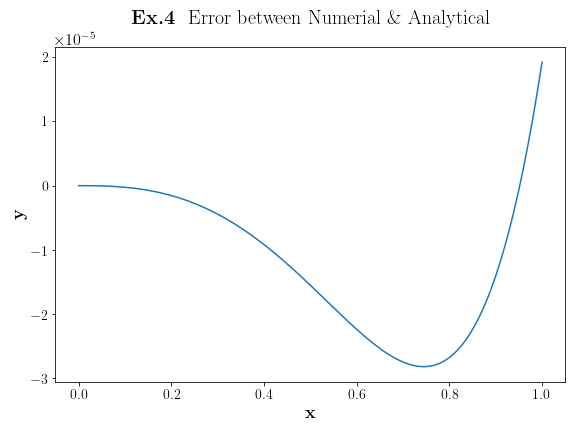
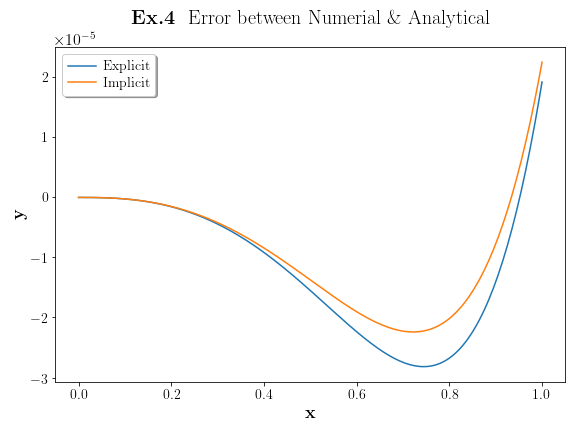
Auto Update: 2021-05-26 16:07:06

diff --git a/posts/2021/fde_num-1/index.html b/posts/2021/fde_num-1/index.html
@@ -5,7 +5,7 @@ $$ D^{k} y(0) = y_0^{(k)}, \quad k=0,1,\cdots,\lceil n\rceil - 1 $$
 applicated Lemma 6.2, in order to convert the initial value problem for the differential equation into an equivalent Volterra integral equation,
 $$ y(x) = \sum_{k=0}^{m-1} \frac{x^k}{k!} D^k y(0) + \frac{1}{\Gamma(n)} \int_0^x (x-t)^{n-1} f(t, y(t)) \mathrm{d} t $$
 where $m=\lceil n\rceil$.
-The algorithm that we shall consider can be interpreted as a frational variant of the classical second-order Adams–Bashforth–Moulton method."><script type=application/ld+json>{"@context":"http://schema.org","@type":"BlogPosting","headline":"FDE: An Algorithm for Single-Term Equations","mainEntityOfPage":{"@type":"WebPage","@id":"https:\/\/blog.eastmagica.com\/posts\/2021\/fde_num-1\/"},"image":{"@type":"ImageObject","url":"https:\/\/blog.eastmagica.com\/cover.png","width":800,"height":600},"genre":"posts","keywords":"fractional caculus, differential equations, python","wordcount":1304,"url":"https:\/\/blog.eastmagica.com\/posts\/2021\/fde_num-1\/","datePublished":"2021-05-24T12:24:39\u002b08:00","dateModified":"2021-05-24T12:24:39\u002b08:00","publisher":{"@type":"Organization","name":"EastMagica","logo":{"@type":"ImageObject","url":"https:\/\/blog.eastmagica.com\/logo.png","width":127,"height":40}},"author":{"@type":"Person","name":"EastMagica"},"description":""}</script></head><body><div class=wrapper><nav class=navbar><div class=container><div class="navbar-header header-logo"><a href=https://blog.eastmagica.com>东方小道</a></div><div class="menu navbar-right"><a class=menu-item href=/posts/ title>Blog</a>
+The algorithm that we shall consider can be interpreted as a frational variant of the classical second-order Adams–Bashforth–Moulton method."><script type=application/ld+json>{"@context":"http://schema.org","@type":"BlogPosting","headline":"FDE: An Algorithm for Single-Term Equations","mainEntityOfPage":{"@type":"WebPage","@id":"https:\/\/blog.eastmagica.com\/posts\/2021\/fde_num-1\/"},"image":{"@type":"ImageObject","url":"https:\/\/blog.eastmagica.com\/cover.png","width":800,"height":600},"genre":"posts","keywords":"fractional caculus, differential equations, python","wordcount":1433,"url":"https:\/\/blog.eastmagica.com\/posts\/2021\/fde_num-1\/","datePublished":"2021-05-24T12:24:39\u002b08:00","dateModified":"2021-05-24T12:24:39\u002b08:00","publisher":{"@type":"Organization","name":"EastMagica","logo":{"@type":"ImageObject","url":"https:\/\/blog.eastmagica.com\/logo.png","width":127,"height":40}},"author":{"@type":"Person","name":"EastMagica"},"description":""}</script></head><body><div class=wrapper><nav class=navbar><div class=container><div class="navbar-header header-logo"><a href=https://blog.eastmagica.com>东方小道</a></div><div class="menu navbar-right"><a class=menu-item href=/posts/ title>Blog</a>
 <a class=menu-item href=/tags/ title>Tags</a>
 <a class=menu-item href=/about title>About</a>
 <a class=menu-item href=/atom.xml title>RSS</a></div></div></nav><nav class=navbar-mobile id=nav-mobile style=display:none><div class=container><div class=navbar-header><div><a href=https://blog.eastmagica.com>东方小道</a></div><div class=menu-toggle><span></span><span></span><span></span></div></div><div class=menu id=mobile-menu><a class=menu-item href=/posts/ title>Blog</a>
@@ -19,7 +19,7 @@ D^{k} y(0) = y_0^{(k)}, \quad k=0,1,\cdots,\lceil n\rceil - 1
 $$</p><p>applicated <strong>Lemma 6.2</strong>, in order to convert the initial value problem for the differential equation into an equivalent <strong>Volterra integral equation</strong>,</p><p>$$
 y(x) = \sum_{k=0}^{m-1} \frac{x^k}{k!} D^k y(0) + \frac{1}{\Gamma(n)} \int_0^x (x-t)^{n-1} f(t, y(t)) \mathrm{d} t
 $$</p><p>where $m=\lceil n\rceil$.</p><p>The algorithm that we shall consider can be interpreted as a frational variant of the classical second-order <strong>Adams–Bashforth–Moulton method</strong>.</p><h3 id=integral-scheme>Integral Scheme<a href=#integral-scheme class=anchor aria-hidden=true><svg xmlns="http://www.w3.org/2000/svg" viewBox="0 0 24 24" fill="none" stroke="currentcolor" stroke-width="2" stroke-linecap="round" stroke-linejoin="round"><path d="M15 7h3a5 5 0 015 5 5 5 0 01-5 5h-3m-6 0H6a5 5 0 01-5-5 5 5 0 015-5h3"/><line x1="8" y1="12" x2="16" y2="12"/></svg></a></h3><p>We focus our attention on the well-known initial-value problem for the first-order differnetial equation</p><p>$$\begin{cases}
-D y(x) &= f(x, y(x)) \<br>y(0) &= y_0
+D y(x) &= f(x, y(x)) \\<br>y(0) &= y_0
 \end{cases}$$</p><p>We suggest to use the predictor-corrector technique of Adams, for the sake of simplicity, we assume that we are working on a uniform grid ${t_j=jh: j=0,1,\cdots,N}$ with some interger $N$ and $h=T/N$.</p><p>$$
 y_{k+1} = y_k + \int_{x_k}^{x_{k+1}} f(t, y(t)) \mathrm{d} t = y_k + \frac{t_{k+1}-t_k}{2} \bigg(f(t_k, y(t_k)) + f(t_{k+1}, y(t_{k+1})\bigg)
 $$</p><p>explicit (forward Euler or one-step Adams–Bashforth) method</p><p>$$
@@ -30,31 +30,32 @@ $$</p><h3 id=fractional-scheme>Fractional Scheme<a href=#fractional-scheme class
 y(t_{k+1}) = \sum_{j=0}^{m-1} \frac{x^j}{j!} y^{(j)}_0 + \frac{1}{\Gamma(n)} \int_0^{t_{k+1}} (t_{k+1}-z)^{n-1} f(z, y(z)) \mathrm{d} z
 $$</p><p>We apply the approximation</p><p>$$
 \begin{aligned}
-& \int_0^{t_{k+1}} (t_{k+1} - z)^{n-1} g(z) \mathrm{d} z \<br>\approx & \int_0^{t_{k+1}} (t_{k+1} - z)^{n-1} \tilde{g}_{k+1}(z) \mathrm{d} z \<br>=& \int_0^{t_{k+1}} \left[(t_{k+1} - z)^{n-1} \left(\sum_{j=0}^{k+1} g(t_{j})\phi_{j, k+1}(z)\right)\right] \mathrm{d} z \<br>=& \sum_{j=0}^{k+1} g(t_{j}) \int_0^{t_{k+1}} (t_{k+1} - z)^{n-1} \phi_{j, k+1}(z) \mathrm{d} z \<br>=& \sum_{j=0}^{k+1} a_{j, k+1} g(t_{j}) \<br>\end{aligned}
+& \int_0^{t_{k+1}} (t_{k+1} - z)^{n-1} g(z) \mathrm{d} z \\<br>\approx & \int_0^{t_{k+1}} (t_{k+1} - z)^{n-1} \tilde{g}_{k+1}(z) \mathrm{d} z \\<br>=& \int_0^{t_{k+1}} \left[(t_{k+1} - z)^{n-1} \left(\sum_{j=0}^{k+1} g(t_{j})\phi_{j, k+1}(z)\right)\right] \mathrm{d} z \\<br>=& \sum_{j=0}^{k+1} g(t_{j}) \int_0^{t_{k+1}} (t_{k+1} - z)^{n-1} \phi_{j, k+1}(z) \mathrm{d} z \\<br>=& \sum_{j=0}^{k+1} a_{j, k+1} g(t_{j}) \\<br>\end{aligned}
 $$</p><p>where $\tilde{g}$ is the piecewise linear interpolant for $g$ with nodes and knots chosen at the $t_j,; j=0,1,2,\cdots,k+1$ as</p><p>$$
 \tilde{g}<em>{k+1}(z) = \sum</em>{j=0}^{k+1} g(t_{j})\phi_{j, k+1}(z)
 $$</p><p>where $phi_{j}(z)$ is linear basis function, defined by</p><p>$$
 \phi_{j, k+1}(z)=\begin{cases}
-(z - t_{j-1}) / (t_j - t_{j-1}) & \text{ if } t_{j-1} &lt; z \leq t_{j} \<br>(t_{j+1} - z) / (t_{j+1} - t_j) & \text{ if } t_{j} &lt; z \leq t_{j+1} \<br>0 & \text{ else }
+(z - t_{j-1}) / (t_j - t_{j-1}) & \text{ if } t_{j-1} &lt; z \leq t_{j} \\<br>(t_{j+1} - z) / (t_{j+1} - t_j) & \text{ if } t_{j} &lt; z \leq t_{j+1} \\<br>0 & \text{ else }
 \end{cases}
-$$</p><p>visualized, shown as</p><p><figure><img src=/images/ring.svg data-sizes=auto data-src=img/single_term/basis_fun_all.png alt="Fig. Basis phi" class=lazyload><figcaption class=image-caption>Fig. Basis phi</figcaption></figure></p><p>then the itegration within coffecient $a_{j, k+1}$ can be simplified as</p><p>$$
+$$</p><p>visualized, shown as</p><p><figure><img src=/images/ring.svg data-sizes=auto data-src=basis_fun_all.png alt="Fig. Basis phi" class=lazyload><figcaption class=image-caption>Fig. Basis phi</figcaption></figure></p><p>then the itegration within coffecient $a_{j, k+1}$ can be simplified as</p><p>$$
 \begin{aligned}
-a_{j, k+1} =& \int_0^{t_{k+1}} (t_{k+1} - z)^{n-1} \phi_{j, k+1}(z) \mathrm{d} z \<br>=& \begin{cases}
-\frac{h^n}{n(n+1)} \left(k^{n+1}-(k-n)(k+1)^{n}\right) & \text{ if } j=0, \<br>\frac{h^n}{n(n+1)} \left((k-j+2)^{n+1}+(k-j)^{n+1}-2(k-j+1)^{n+1}\right) & \text{ if } 1\leq j\leq k, \<br>\frac{h^n}{n(n+1)} & \text{ if } j=k+1 \<br>\end{cases}
+a_{j, k+1} =& \int_0^{t_{k+1}} (t_{k+1} - z)^{n-1} \phi_{j, k+1}(z) \mathrm{d} z \\<br>=& \begin{cases}
+\frac{h^n}{n(n+1)} \left(k^{n+1}-(k-n)(k+1)^{n}\right) & \text{ if } j=0, \\<br>\frac{h^n}{n(n+1)} \left((k-j+2)^{n+1}+(k-j)^{n+1}-2(k-j+1)^{n+1}\right) & \text{ if } 1\leq j\leq k, \\<br>\frac{h^n}{n(n+1)} & \text{ if } j=k+1 \\<br>\end{cases}
 \end{aligned}
 $$</p><p>thus giving an equation for the unknown approximation $y_{k+1}$</p><p>$$\tag{3}
 y_{k+1} = \sum_{j=0}^{m-1} \frac{t_{k+1}^{j}}{j!} y_0^{(j)} + \frac{1}{\Gamma(n)} \left(\sum_{j=0}^{k+1} a_{j, k+1} f(t_j, y(t_j))\right)
 $$</p><p>where again we have to replace $y(t_{j})$ and by their approximation $y_j$ in (3), respectively. This yields the equation for the implicit one-step *Adams-Moulton method*, which is</p><p>$$\tag{4}
-y_{k+1} = \sum_{j=0}^{m-1} \frac{t_{k+1}^{j}}{j!} y_0^{(j)} + \frac{1}{\Gamma(n)} \left(\sum_{j=0}^{k+1} a_{j, k+1} f(t_j, y_j)\right)
-$$</p><p>The problem know is this equation is require the value of $y_{k+1}$ which is unknown, and due to the nonlinear nature of the function $f$, we cannot solve for $y_{k+1}$ directly in general. Therefore, we may use (1) in an iterative process, inserting a preliminary approximation for $y_{k+1}$ in the right-hand side in order to determine a better approximation that we can used.</p><p>The preliminary approximation $y_{k+1}^{P}$, the so-called predictor, is obtained in a very similar way, only replacing the xxxxxxx formula by the rectangle rule</p><p>$$
+y_{k+1} = \sum_{j=0}^{m-1} \frac{t_{k+1}^{j}}{j!} y_0^{(j)} + \frac{1}{\Gamma(n)} \left(\sum_{j=0}^{k} a_{j, k+1} f(t_j, y_j) + a_{k+1, k+1} f(t_{k+1}, y_{k+1})\right)
+$$</p><p>The problem know is this equation is require the value of $y_{k+1}$ which is unknown, and due to the nonlinear nature of the function $f$, we cannot solve for $y_{k+1}$ directly in general.</p><h4 id=explicit-method>Explicit Method<a href=#explicit-method class=anchor aria-hidden=true><svg xmlns="http://www.w3.org/2000/svg" viewBox="0 0 24 24" fill="none" stroke="currentcolor" stroke-width="2" stroke-linecap="round" stroke-linejoin="round"><path d="M15 7h3a5 5 0 015 5 5 5 0 01-5 5h-3m-6 0H6a5 5 0 01-5-5 5 5 0 015-5h3"/><line x1="8" y1="12" x2="16" y2="12"/></svg></a></h4><p>Therefore, we may use (1) in an iterative process, inserting a preliminary approximation for $y_{k+1}$ in the right-hand side in order to determine a better approximation that we can used.</p><p>The preliminary approximation $y_{k+1}^{P}$, the so-called predictor, is obtained in a very similar way, only replacing the xxxxxxx formula by the rectangle rule</p><p>$$
 \begin{aligned}
-& \int_{0}^{t_{k+1}} (t_{k+1} - z)^{n-1} g(z) \mathrm{d} z \<br>\approx & \int_{0}^{t_{k+1}} (t_{k+1} - z)^{n-1} \sum_{j=0}^{k} g(t_j) \mathrm{1}(z) \mathrm{d} z \<br>=& \sum_{j=0}^{k} g(t_j) \int_{0}^{t_{k+1}} (t_{k+1} - z)^{n-1} \mathrm{d} z \<br>=& \sum_{j=0}^{k} g(t_j) \frac{(t_{k+1} - t_{j}^n - (t_{k+1} - t_{j+1})^n}{n} \<br>=& \sum_{j=0}^{k} b_{j, k+1} g(t_j) \<br>\end{aligned}
-$$</p><p>the rectanle rule shown as</p><p><figure><img src=/images/ring.svg data-sizes=auto data-src=img/single_term/rectangle_rule.png alt="rectangle rule" class=lazyload><figcaption class=image-caption>rectangle rule</figcaption></figure></p><p>in equispaced case, we have the simpler expression $b_{j,k+1}=\frac{h^n}{n}((k+1-j)^n-(k-j)^n)$.</p><p>Thus giving us the explicit predict method</p><p>$$\tag{5}
+& \int_{0}^{t_{k+1}} (t_{k+1} - z)^{n-1} g(z) \mathrm{d} z \\<br>\approx & \int_{0}^{t_{k+1}} (t_{k+1} - z)^{n-1} \sum_{j=0}^{k} g(t_j) \mathrm{1}(z) \mathrm{d} z \\<br>=& \sum_{j=0}^{k} g(t_j) \int_{0}^{t_{k+1}} (t_{k+1} - z)^{n-1} \mathrm{d} z \\<br>=& \sum_{j=0}^{k} g(t_j) \frac{(t_{k+1} - t_{j}^n - (t_{k+1} - t_{j+1})^n}{n} \\<br>=& \sum_{j=0}^{k} b_{j, k+1} g(t_j) \\<br>\end{aligned}
+$$</p><p>the rectanle rule shown as</p><p><figure><img src=/images/ring.svg data-sizes=auto data-src=rectangle_rule.png alt="rectangle rule" class=lazyload><figcaption class=image-caption>rectangle rule</figcaption></figure></p><p>in equispaced case, we have the simpler expression $b_{j,k+1}=\frac{h^n}{n}((k+1-j)^n-(k-j)^n)$.</p><p>Thus giving us the explicit predict method</p><p>$$\tag{5}
 y_{k+1}^{P} = \sum_{j=0}^{m-1} \frac{t_{k+1}^{j}}{j!} y_0^{(j)} + \frac{1}{\Gamma(n)} \sum_{j=0}^{k} b_{j, k+1} f(t_{j}, y_{j})
 $$</p><p>This then gives us our corrector formula (i.e. the fractional variant of the one-step <em>Adams-Moulton method</em>), which is</p><p>$$\tag{6}
-\begin{aligned}
-y_{k+1} =& \sum_{j=0}^{m-1} \frac{t_{k+1}^{j}}{j!} y_0^{(j)} + \frac{1}{\Gamma(n)} \left(\sum_{j=0}^{k} a_{j, k+1} f(t_j, y(t_j)) + a_{k+1, k+1} f(t_{k+1}, y(t_{k+1}))\right) \<br>=& \sum_{j=0}^{m-1} \frac{t_{k+1}^{j}}{j!} y_0^{(j)} + \frac{1}{\Gamma(n)} \left(\sum_{j=0}^{k} a_{j, k+1} f(t_j, y_j) + a_{k+1, k+1} f(t_{k+1}, y_{k+1}^{P})\right) \<br>\end{aligned}
-$$</p><h2 id=examples>Examples<a href=#examples class=anchor aria-hidden=true><svg xmlns="http://www.w3.org/2000/svg" viewBox="0 0 24 24" fill="none" stroke="currentcolor" stroke-width="2" stroke-linecap="round" stroke-linejoin="round"><path d="M15 7h3a5 5 0 015 5 5 5 0 01-5 5h-3m-6 0H6a5 5 0 01-5-5 5 5 0 015-5h3"/><line x1="8" y1="12" x2="16" y2="12"/></svg></a></h2><h3 id=ex1-two-functions-coincide-at-x_1-but-nowhere-else>ex.1 two functions coincide at $x_1$ but nowhere else<a href=#ex1-two-functions-coincide-at-x_1-but-nowhere-else class=anchor aria-hidden=true><svg xmlns="http://www.w3.org/2000/svg" viewBox="0 0 24 24" fill="none" stroke="currentcolor" stroke-width="2" stroke-linecap="round" stroke-linejoin="round"><path d="M15 7h3a5 5 0 015 5 5 5 0 01-5 5h-3m-6 0H6a5 5 0 01-5-5 5 5 0 015-5h3"/><line x1="8" y1="12" x2="16" y2="12"/></svg></a></h3><p><strong>Theorem 6.A.</strong> Let $f: [a, b]\times [c, d]\rightarrow\mathbb{R}$ be continuous and satisfy a Lipschitz condition with respect to the second variable. Consider two solutions $y_1$ and $y_2$ of the differential equation</p><p>$$
+y_{k+1} = \sum_{j=0}^{m-1} \frac{t_{k+1}^{j}}{j!} y_0^{(j)} + \frac{1}{\Gamma(n)} \left(\sum_{j=0}^{k} a_{j, k+1} f(t_j, y_j) + a_{k+1, k+1} f(t_{k+1}, y_{k+1}^{P})\right)
+$$</p><h4 id=implicit-method>Implicit Method<a href=#implicit-method class=anchor aria-hidden=true><svg xmlns="http://www.w3.org/2000/svg" viewBox="0 0 24 24" fill="none" stroke="currentcolor" stroke-width="2" stroke-linecap="round" stroke-linejoin="round"><path d="M15 7h3a5 5 0 015 5 5 5 0 01-5 5h-3m-6 0H6a5 5 0 01-5-5 5 5 0 015-5h3"/><line x1="8" y1="12" x2="16" y2="12"/></svg></a></h4><p>Find a root of a scalar function</p><p>$$\tag{7}
+\bar{y}<em>{k+1} - \frac{a</em>{k+1, k+1}}{\Gamma(n)} f(t_{k+1}, \bar{y}_{k+1}) = \sum_{j=0}^{m-1} \frac{t_{k+1}^{j}}{j!} y_0^{(j)} + \frac{1}{\Gamma(n)} \left(\sum_{j=0}^{k} a_{j, k+1} f(t_j, y_j)\right)
+$$</p><p>then $\bar{y}<em>{k+1}$ is the approximation of $y</em>{k+1}$.</p><h2 id=examples>Examples<a href=#examples class=anchor aria-hidden=true><svg xmlns="http://www.w3.org/2000/svg" viewBox="0 0 24 24" fill="none" stroke="currentcolor" stroke-width="2" stroke-linecap="round" stroke-linejoin="round"><path d="M15 7h3a5 5 0 015 5 5 5 0 01-5 5h-3m-6 0H6a5 5 0 01-5-5 5 5 0 015-5h3"/><line x1="8" y1="12" x2="16" y2="12"/></svg></a></h2><h3 id=ex1-two-functions-coincide-at-x_1-but-nowhere-else>ex.1 two functions coincide at $x_1$ but nowhere else<a href=#ex1-two-functions-coincide-at-x_1-but-nowhere-else class=anchor aria-hidden=true><svg xmlns="http://www.w3.org/2000/svg" viewBox="0 0 24 24" fill="none" stroke="currentcolor" stroke-width="2" stroke-linecap="round" stroke-linejoin="round"><path d="M15 7h3a5 5 0 015 5 5 5 0 01-5 5h-3m-6 0H6a5 5 0 01-5-5 5 5 0 015-5h3"/><line x1="8" y1="12" x2="16" y2="12"/></svg></a></h3><p><strong>Theorem 6.A.</strong> Let $f: [a, b]\times [c, d]\rightarrow\mathbb{R}$ be continuous and satisfy a Lipschitz condition with respect to the second variable. Consider two solutions $y_1$ and $y_2$ of the differential equation</p><p>$$
 D^{1} y_{j} = f(x, y_j(x))\quad j=1,2
 $$</p><p>subject to the initial conditions $y_j(x_j)=y_{j0}$, respectively. Then the functions $y_1$ and $y_2$ coincide either everywhere or nowhere.</p><p><strong>Example 6.1</strong> Let $0 &lt; n &lt; 1$ and consider the fractional differential equations</p><p>$$
 D_{*0}^{n} y(x) = \Gamma(n+1)
@@ -122,7 +123,7 @@ $$</p><p>with initial condition $y(0)=0, y'(0)=0$.</p><p>The exact solution of t
 y(x) = x^8 - 3 x^{4+n/2} + \frac{9}{4} x^n
 $$</p><p>hence</p><p>$$
 D_{*0}^n y(x) = \frac{40320}{\Gamma(9-n)} x^{8-n} - 3\frac{\Gamma(5+n/2)}{\Gamma(5+n/2)} x^{4-n/2} + \frac{9}{4}\Gamma(n+1)
-$$</p><h4 id=numerical-3>Numerical<a href=#numerical-3 class=anchor aria-hidden=true><svg xmlns="http://www.w3.org/2000/svg" viewBox="0 0 24 24" fill="none" stroke="currentcolor" stroke-width="2" stroke-linecap="round" stroke-linejoin="round"><path d="M15 7h3a5 5 0 015 5 5 5 0 01-5 5h-3m-6 0H6a5 5 0 01-5-5 5 5 0 015-5h3"/><line x1="8" y1="12" x2="16" y2="12"/></svg></a></h4><p>Let $n = 1.25$</p><pre><code class=language-python>def fun_4(t, y):
+$$</p><h4 id=numerical-3>Numerical<a href=#numerical-3 class=anchor aria-hidden=true><svg xmlns="http://www.w3.org/2000/svg" viewBox="0 0 24 24" fill="none" stroke="currentcolor" stroke-width="2" stroke-linecap="round" stroke-linejoin="round"><path d="M15 7h3a5 5 0 015 5 5 5 0 01-5 5h-3m-6 0H6a5 5 0 01-5-5 5 5 0 015-5h3"/><line x1="8" y1="12" x2="16" y2="12"/></svg></a></h4><p>Let $n = 1.25$</p><p><strong>Explicit</strong> method shown as</p><pre><code class=language-python>def fun_4(t, y):
     expr1 = 40320/gamma(9-n) * t**(8-n)
     expr2 = 3 * gamma(5+n/2) / gamma(5-n/2) * t**(4-n/2)
     expr3 = 9/4 * gamma(n + 1)
@@ -139,12 +140,22 @@ $$</p><h4 id=numerical-3>Numerical<a href=#numerical-3 class=anchor aria-hidden=
     }
 )
 y_data_4 = test_4.iterator()
-</code></pre><p><figure><img src=/images/ring.svg data-sizes=auto data-src=ex.4.num.png alt="Figure 4.1 Numerial Solution" class=lazyload><figcaption class=image-caption>Figure 4.1 Numerial Solution</figcaption></figure></p><h4 id=analytical-1>Analytical<a href=#analytical-1 class=anchor aria-hidden=true><svg xmlns="http://www.w3.org/2000/svg" viewBox="0 0 24 24" fill="none" stroke="currentcolor" stroke-width="2" stroke-linecap="round" stroke-linejoin="round"><path d="M15 7h3a5 5 0 015 5 5 5 0 01-5 5h-3m-6 0H6a5 5 0 01-5-5 5 5 0 015-5h3"/><line x1="8" y1="12" x2="16" y2="12"/></svg></a></h4><pre><code class=language-python>t_seq_4 = test_4.t.seq
+</code></pre><p><figure><img src=/images/ring.svg data-sizes=auto data-src=ex.4.num.png alt="Figure 4.1 Explicit Numerial Solution" class=lazyload><figcaption class=image-caption>Figure 4.1 Explicit Numerial Solution</figcaption></figure></p><p><strong>Implicit</strong> method shown as</p><pre><code class=language-python>test_4_im = AdamsImplicit(
+    func=fun_4,
+    dy0=[np.array([0]), np.array([0])],
+    dn=n,
+    time_opt={
+        &quot;domain&quot;: np.array([0., 1.]),
+        &quot;n&quot;: 200
+    }
+)
+y_data_4_im = test_4_im.iterator()
+</code></pre><p><figure><img src=/images/ring.svg data-sizes=auto data-src=ex.4.num.im.png alt="Figure 4.1 Implicit Numerial Solution" class=lazyload><figcaption class=image-caption>Figure 4.1 Implicit Numerial Solution</figcaption></figure></p><h4 id=analytical-1>Analytical<a href=#analytical-1 class=anchor aria-hidden=true><svg xmlns="http://www.w3.org/2000/svg" viewBox="0 0 24 24" fill="none" stroke="currentcolor" stroke-width="2" stroke-linecap="round" stroke-linejoin="round"><path d="M15 7h3a5 5 0 015 5 5 5 0 01-5 5h-3m-6 0H6a5 5 0 01-5-5 5 5 0 015-5h3"/><line x1="8" y1="12" x2="16" y2="12"/></svg></a></h4><pre><code class=language-python>t_seq_4 = test_4.t.seq
 # t_seq_4 = np.linspace(0, 1., 201)
 
 y_analytic_4 = t_seq_4**8 - 3 * t_seq_4**(4+n/2) + 9/4 * t_seq_4**n
 </code></pre><p><figure><img src=/images/ring.svg data-sizes=auto data-src=ex.4.ana.png alt="Figure 4.2 Analytical Solution" class=lazyload><figcaption class=image-caption>Figure 4.2 Analytical Solution</figcaption></figure></p><h4 id=error-analysis-1>Error Analysis<a href=#error-analysis-1 class=anchor aria-hidden=true><svg xmlns="http://www.w3.org/2000/svg" viewBox="0 0 24 24" fill="none" stroke="currentcolor" stroke-width="2" stroke-linecap="round" stroke-linejoin="round"><path d="M15 7h3a5 5 0 015 5 5 5 0 01-5 5h-3m-6 0H6a5 5 0 01-5-5 5 5 0 015-5h3"/><line x1="8" y1="12" x2="16" y2="12"/></svg></a></h4><pre><code class=language-python>y_error_4 = y_data_4 - y_analytic_4
-</code></pre><p><figure><img src=/images/ring.svg data-sizes=auto data-src=ex.4.err.png alt="Figure 4.3 Error" class=lazyload><figcaption class=image-caption>Figure 4.3 Error</figcaption></figure></p><h4 id=error-order>Error Order<a href=#error-order class=anchor aria-hidden=true><svg xmlns="http://www.w3.org/2000/svg" viewBox="0 0 24 24" fill="none" stroke="currentcolor" stroke-width="2" stroke-linecap="round" stroke-linejoin="round"><path d="M15 7h3a5 5 0 015 5 5 5 0 01-5 5h-3m-6 0H6a5 5 0 01-5-5 5 5 0 015-5h3"/><line x1="8" y1="12" x2="16" y2="12"/></svg></a></h4><pre><code class=language-python>iter_step = 7
+</code></pre><p><figure><img src=/images/ring.svg data-sizes=auto data-src=ex.4.err.png alt="Figure 4.3 Error" class=lazyload><figcaption class=image-caption>Figure 4.3 Error</figcaption></figure></p><h4 id=error-order>Error Order<a href=#error-order class=anchor aria-hidden=true><svg xmlns="http://www.w3.org/2000/svg" viewBox="0 0 24 24" fill="none" stroke="currentcolor" stroke-width="2" stroke-linecap="round" stroke-linejoin="round"><path d="M15 7h3a5 5 0 015 5 5 5 0 01-5 5h-3m-6 0H6a5 5 0 01-5-5 5 5 0 015-5h3"/><line x1="8" y1="12" x2="16" y2="12"/></svg></a></h4><p><strong>Explicit</strong> shown as</p><pre><code class=language-python>iter_step = 7
 step_n = 10
 
 y_4_end_list = iter_error_order(
@@ -165,7 +176,28 @@ y_4_end_list = iter_error_order(
 )
 order_info_table, order_info = error_table(y_4_end_list)
 print(order_info_table.get_string())
-</code></pre><table><thead><tr><th style=text-align:center>step size</th><th style=text-align:center>Error of Adams scheme</th><th style=text-align:center>Error Order</th></tr></thead><tbody><tr><td style=text-align:center>10</td><td style=text-align:center>5.532564e-03</td><td style=text-align:center></td></tr><tr><td style=text-align:center>20</td><td style=text-align:center>1.593218e-03</td><td style=text-align:center>1.7960</td></tr><tr><td style=text-align:center>40</td><td style=text-align:center>4.328280e-04</td><td style=text-align:center>1.8801</td></tr><tr><td style=text-align:center>80</td><td style=text-align:center>1.143382e-04</td><td style=text-align:center>1.9205</td></tr><tr><td style=text-align:center>160</td><td style=text-align:center>2.974073e-05</td><td style=text-align:center>1.9428</td></tr><tr><td style=text-align:center>320</td><td style=text-align:center>7.663078e-06</td><td style=text-align:center>1.9564</td></tr><tr><td style=text-align:center>640</td><td style=text-align:center>1.961993e-06</td><td style=text-align:center>1.9656</td></tr></tbody></table></div><div class=post-copyright><p class=copyright-item><span>Author:</span>
+</code></pre><table><thead><tr><th style=text-align:center>step size</th><th style=text-align:center>Error of Adams scheme</th><th style=text-align:center>Error Order</th></tr></thead><tbody><tr><td style=text-align:center>10</td><td style=text-align:center>5.532564e-03</td><td style=text-align:center></td></tr><tr><td style=text-align:center>20</td><td style=text-align:center>1.593218e-03</td><td style=text-align:center>1.7960</td></tr><tr><td style=text-align:center>40</td><td style=text-align:center>4.328280e-04</td><td style=text-align:center>1.8801</td></tr><tr><td style=text-align:center>80</td><td style=text-align:center>1.143382e-04</td><td style=text-align:center>1.9205</td></tr><tr><td style=text-align:center>160</td><td style=text-align:center>2.974073e-05</td><td style=text-align:center>1.9428</td></tr><tr><td style=text-align:center>320</td><td style=text-align:center>7.663078e-06</td><td style=text-align:center>1.9564</td></tr><tr><td style=text-align:center>640</td><td style=text-align:center>1.961993e-06</td><td style=text-align:center>1.9656</td></tr></tbody></table><p><strong>Implicit</strong> shown as</p><pre><code class=language-python>iter_step = 7
+step_n = 10
+
+y_4_end_list = iter_error_order(
+    module=AdamsImplicit,
+    parameters={
+        &quot;func&quot;: fun_4,
+        &quot;dy0&quot;: [np.array([0]), np.array([0])],
+        &quot;dn&quot;: n,
+        &quot;time_opt&quot;: {
+            &quot;domain&quot;: np.array([0., 1.]),
+            &quot;n&quot;: step_n
+        }
+    },
+    iter_name=&quot;time_opt&quot;,
+    iter_step=iter_step,
+    iter_func=lambda opt: dict(opt, n=opt[&quot;n&quot;] * 2),
+    collect_func=lambda opt, out: [opt[&quot;n&quot;], out[-1] - y_analytic_4[-1]]
+)
+
+order_info_table, order_info = error_table(y_4_end_list)
+</code></pre><table><thead><tr><th style=text-align:center>step size</th><th style=text-align:center>Error of Adams scheme</th><th style=text-align:center>Error Order</th></tr></thead><tbody><tr><td style=text-align:center>10</td><td style=text-align:center>9.452069e-03</td><td style=text-align:center></td></tr><tr><td style=text-align:center>20</td><td style=text-align:center>2.300722e-03</td><td style=text-align:center>2.0385</td></tr><tr><td style=text-align:center>40</td><td style=text-align:center>5.679638e-04</td><td style=text-align:center>2.0182</td></tr><tr><td style=text-align:center>80</td><td style=text-align:center>1.412250e-04</td><td style=text-align:center>2.0078</td></tr><tr><td style=text-align:center>160</td><td style=text-align:center>3.522694e-05</td><td style=text-align:center>2.0032</td></tr><tr><td style=text-align:center>320</td><td style=text-align:center>8.798560e-06</td><td style=text-align:center>2.0013</td></tr><tr><td style=text-align:center>640</td><td style=text-align:center>2.198795e-06</td><td style=text-align:center>2.0006</td></tr></tbody></table></div><div class=post-copyright><p class=copyright-item><span>Author:</span>
 <span>EastMagica</span></p><p class=copyright-item></p><p class=copyright-item><span>LICENSE:</span>
 <span>如无特殊声明，本博客文章均以 <a href=https://creativecommons.org/licenses/by-nc-sa/4.0/ target=_blank>CC BY-NC-SA 4.0</a> 协议发布</span></p></div><div class=post-tags><section><i class="iconfont icon-icon-tag"></i>Tag:
 <span class=tag><a href=https://blog.eastmagica.com/tags/fractional-caculus/>#fractional caculus</a></span>
